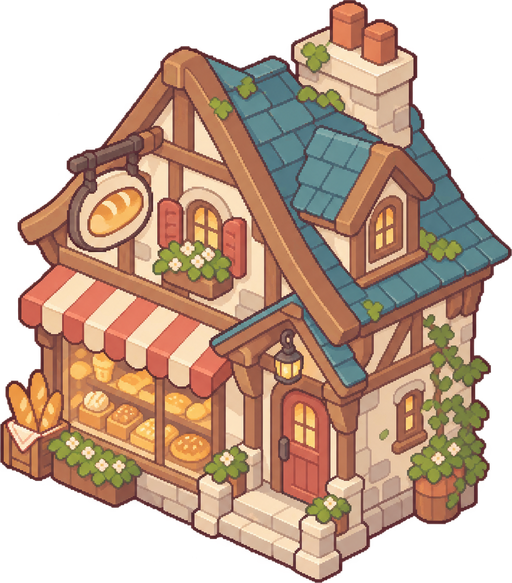
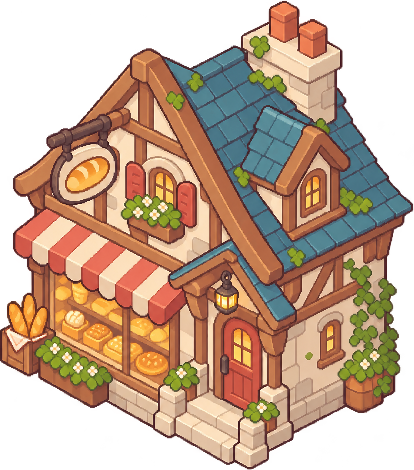
침략자가 장식을 넘어 다님(장식으로 길을 막지 못함), 금고를 장식 칸에도 둘 수 있음, 빵집·주스 가게·잼 공방 새 그림
Claude-Session: https://claude.ai/code/session_012JmrYrYAdyz2vxXVVyUJFg

diff --git a/Assets/ZooZooClub/Tests/Editor/RaidAndQuizTests.cs b/Assets/ZooZooClub/Tests/Editor/RaidAndQuizTests.cs
@@ -23,6 +23,8 @@ namespace ZooZooClub.Tests
             var c = new GameCatalog();
 
             c.placeables.Add(new PlaceableDef { id = "fence", kind = PlaceableKind.Decor, width = 1, height = 1, cost = 0 });
+            // 침략자의 길을 막는 것(장식과 바닥은 넘어 다니므로 막지 못한다).
+            c.placeables.Add(new PlaceableDef { id = "wall", kind = PlaceableKind.Facility, width = 1, height = 1, cost = 0, queueSlots = 1 });
             c.placeables.Add(new PlaceableDef
             {
                 id = "tower", kind = PlaceableKind.Defense, width = 1, height = 1, cost = 0,
@@ -220,7 +222,7 @@ namespace ZooZooClub.Tests
         public void Raid_GoalMovesWhenTheCentreIsBuiltOver()
         {
             int goalX, goalY;
-            Place("fence", Land / 2, Land / 2);
+            Place("wall", Land / 2, Land / 2);
 
             game.GetRaidGoal(out goalX, out goalY);
 
@@ -239,13 +241,13 @@ namespace ZooZooClub.Tests
             Assert.AreEqual(1, game.State.safeX);
 
             // 막힌 칸과 땅 밖은 안 된다.
-            Place("fence", 2, 4);
+            Place("wall", 2, 4);
             Assert.AreEqual(ActionResult.InvalidPlacement, game.MoveSafe(2, 4));
             Assert.AreEqual(ActionResult.InvalidPlacement, game.MoveSafe(Land, 0));
             Assert.AreEqual(ActionResult.InvalidPlacement, game.MoveSafe(-1, 0));
 
             // 금고 칸에 무언가를 지으면 바로 옆 빈칸으로 비켜 선다.
-            Place("fence", 1, 4);
+            Place("wall", 1, 4);
             game.GetRaidGoal(out goalX, out goalY);
             Assert.IsFalse(goalX == 1 && goalY == 4);
             Assert.LessOrEqual(Math.Abs(goalX - 1) + Math.Abs(goalY - 4), 1);
@@ -275,7 +277,7 @@ namespace ZooZooClub.Tests
             var fences = new[] { 0, 1, 1, 1, 2, 1, 4, 1, 5, 1, 2, 3, 4, 3, 3, 4 };
             for (int i = 0; i < fences.Length; i += 2)
             {
-                Place("fence", fences[i], fences[i + 1]);
+                Place("wall", fences[i], fences[i + 1]);
                 blocked.Add(fences[i] + fences[i + 1] * Land);
             }
 
@@ -296,17 +298,55 @@ namespace ZooZooClub.Tests
         }
 
         [Test]
+        public void Raid_InvadersWalkOverDecorations()
+        {
+            // 금고 둘레를 장식으로 빙 둘러도 침략자는 넘어 들어온다.
+            int goalX, goalY;
+            game.GetRaidGoal(out goalX, out goalY);
+            var fences = new HashSet<int>();
+            for (int dy = -1; dy <= 1; dy++)
+            {
+                for (int dx = -1; dx <= 1; dx++)
+                {
+                    if (dx == 0 && dy == 0) continue;
+                    Place("fence", goalX + dx, goalY + dy);
+                    fences.Add(goalX + dx + (goalY + dy) * Land);
+                }
+            }
+
+            int x, y;
+            game.GetRaidGoal(out x, out y);
+            Assert.AreEqual(goalX, x);
+            Assert.AreEqual(goalY, y);
+
+            bool crossedFence = false;
+            var report = RunRaid(() =>
+            {
+                foreach (var invader in game.Invaders)
+                {
+                    if (!invader.entered || invader.x < 0f || invader.y < 0f || invader.x >= Land || invader.y >= Land) continue;
+                    crossedFence |= fences.Contains((int)Math.Floor(invader.x) + (int)Math.Floor(invader.y) * Land);
+                }
+            });
+            Assert.IsTrue(crossedFence, "침략자가 장식을 넘어오지 않았다");
+            Assert.Greater(report.escaped, 0);
+
+            // 장식 칸에도 금고를 옮길 수 있다.
+            Assert.AreEqual(ActionResult.Ok, game.MoveSafe(goalX + 1, goalY));
+        }
+
+        [Test]
         public void Raid_WalledOffTown_InvadersStillGetThrough()
         {
             // 땅 가장자리를 울타리로 빙 둘러 막는다. 길이 없어도 침략은 끝나야 한다.
             for (int i = 0; i < Land; i++)
             {
-                Place("fence", i, 0);
-                Place("fence", i, Land - 1);
+                Place("wall", i, 0);
+                Place("wall", i, Land - 1);
                 if (i > 0 && i < Land - 1)
                 {
-                    Place("fence", 0, i);
-                    Place("fence", Land - 1, i);
+                    Place("wall", 0, i);
+                    Place("wall", Land - 1, i);
                 }
             }
 
@@ -321,7 +361,7 @@ namespace ZooZooClub.Tests
             game.StartRaidNow();
             for (int i = 0; i < 20; i++) game.TickRaid(0.05f);
 
-            Place("fence", 2, 2);
+            Place("wall", 2, 2);
             Assert.AreEqual(ActionResult.Ok, game.ExpandLand());
 
             for (int step = 0; step < 5000 && game.RaidActive; step++) game.TickRaid(0.05f);

diff --git a/Assets/ZooZooClub/Scripts/Core/Game.Raid.cs b/Assets/ZooZooClub/Scripts/Core/Game.Raid.cs
@@ -154,14 +154,14 @@ namespace ZooZooClub.Core
             y = raidGoal / raidGridWidth;
         }
 
-        /// <summary>금고(지킬 곳)를 그 칸으로 옮길 수 있는지. 땅 안의 빈칸(바닥은 괜찮다)이어야 하고 침략 중에는 안 된다.</summary>
+        /// <summary>금고(지킬 곳)를 그 칸으로 옮길 수 있는지. 침략자가 설 수 있는 칸(빈칸, 바닥, 장식)이어야 하고 침략 중에는 안 된다.</summary>
         public bool CanMoveSafeTo(int x, int y)
         {
             if (raidActive) return false;
             if (!IsInsideLand(x, y, 1, 1)) return false;
             foreach (var obj in State.objects)
             {
-                if (!PlaceableKind.BlocksWalking(Catalog.GetPlaceable(obj.defId))) continue;
+                if (!PlaceableKind.BlocksInvaders(Catalog.GetPlaceable(obj.defId))) continue;
                 int width, height;
                 GetFootprint(obj, out width, out height);
                 if (x >= obj.x && x < obj.x + width && y >= obj.y && y < obj.y + height) return false;
@@ -344,7 +344,7 @@ namespace ZooZooClub.Core
 
             foreach (var obj in State.objects)
             {
-                if (!PlaceableKind.BlocksWalking(Catalog.GetPlaceable(obj.defId))) continue;
+                if (!PlaceableKind.BlocksInvaders(Catalog.GetPlaceable(obj.defId))) continue;
                 int objectWidth, objectHeight;
                 GetFootprint(obj, out objectWidth, out objectHeight);
                 for (int j = 0; j < objectHeight; j++)

diff --git a/Assets/ZooZooClub/Tests/Editor/RotationTests.cs b/Assets/ZooZooClub/Tests/Editor/RotationTests.cs
@@ -28,6 +28,8 @@ namespace ZooZooClub.Tests
             catalog.placeables.Add(bench);
             catalog.placeables.Add(sign);
             catalog.placeables.Add(fence);
+            // 침략자의 길을 막는 2칸짜리 시설(장식은 침략자가 넘어 다녀서 길을 막지 않는다).
+            catalog.placeables.Add(new PlaceableDef { id = "cart", kind = PlaceableKind.Facility, width = 2, height = 1, cost = 0, rotations = 4, queueSlots = 1 });
             catalog.levels.Add(new LevelDef { xpToNext = 1000 });
             catalog.balance.startCoins = 1000;
             catalog.balance.startLandSize = Land;
@@ -164,8 +166,8 @@ namespace ZooZooClub.Tests
         [Test]
         public void RaidGoal_AvoidsCellsCoveredByARotatedObject()
         {
-            // 옆으로 돌린 벤치가 한가운데 칸과 그 위 칸을 덮는다.
-            Place("bench", Land / 2, Land / 2, 1);
+            // 옆으로 돌린 수레가 한가운데 칸과 그 위 칸을 덮는다.
+            Place("cart", Land / 2, Land / 2, 1);
 
             int goalX, goalY;
             game.GetRaidGoal(out goalX, out goalY);

diff --git a/Assets/ZooZooClub/Scripts/Core/Catalog.cs b/Assets/ZooZooClub/Scripts/Core/Catalog.cs
@@ -82,6 +82,12 @@ namespace ZooZooClub.Core
             return (UsesGround(a) && UsesGround(b)) || (UsesAbove(a) && UsesAbove(b));
         }
 
+        /// <summary>침략자의 길을 막는지. 바닥과 장식은 넘어 다닐 수 있어서 막지 않는다(장식으로 마을을 둘러막지 못하게).</summary>
+        public static bool BlocksInvaders(PlaceableDef def)
+        {
+            return def != null && def.kind != Floor && def.kind != Decor;
+        }
+
         /// <summary>지나가는 길을 막는지. 바닥은 막지 않는다.</summary>
         public static bool BlocksWalking(PlaceableDef def)
         {
